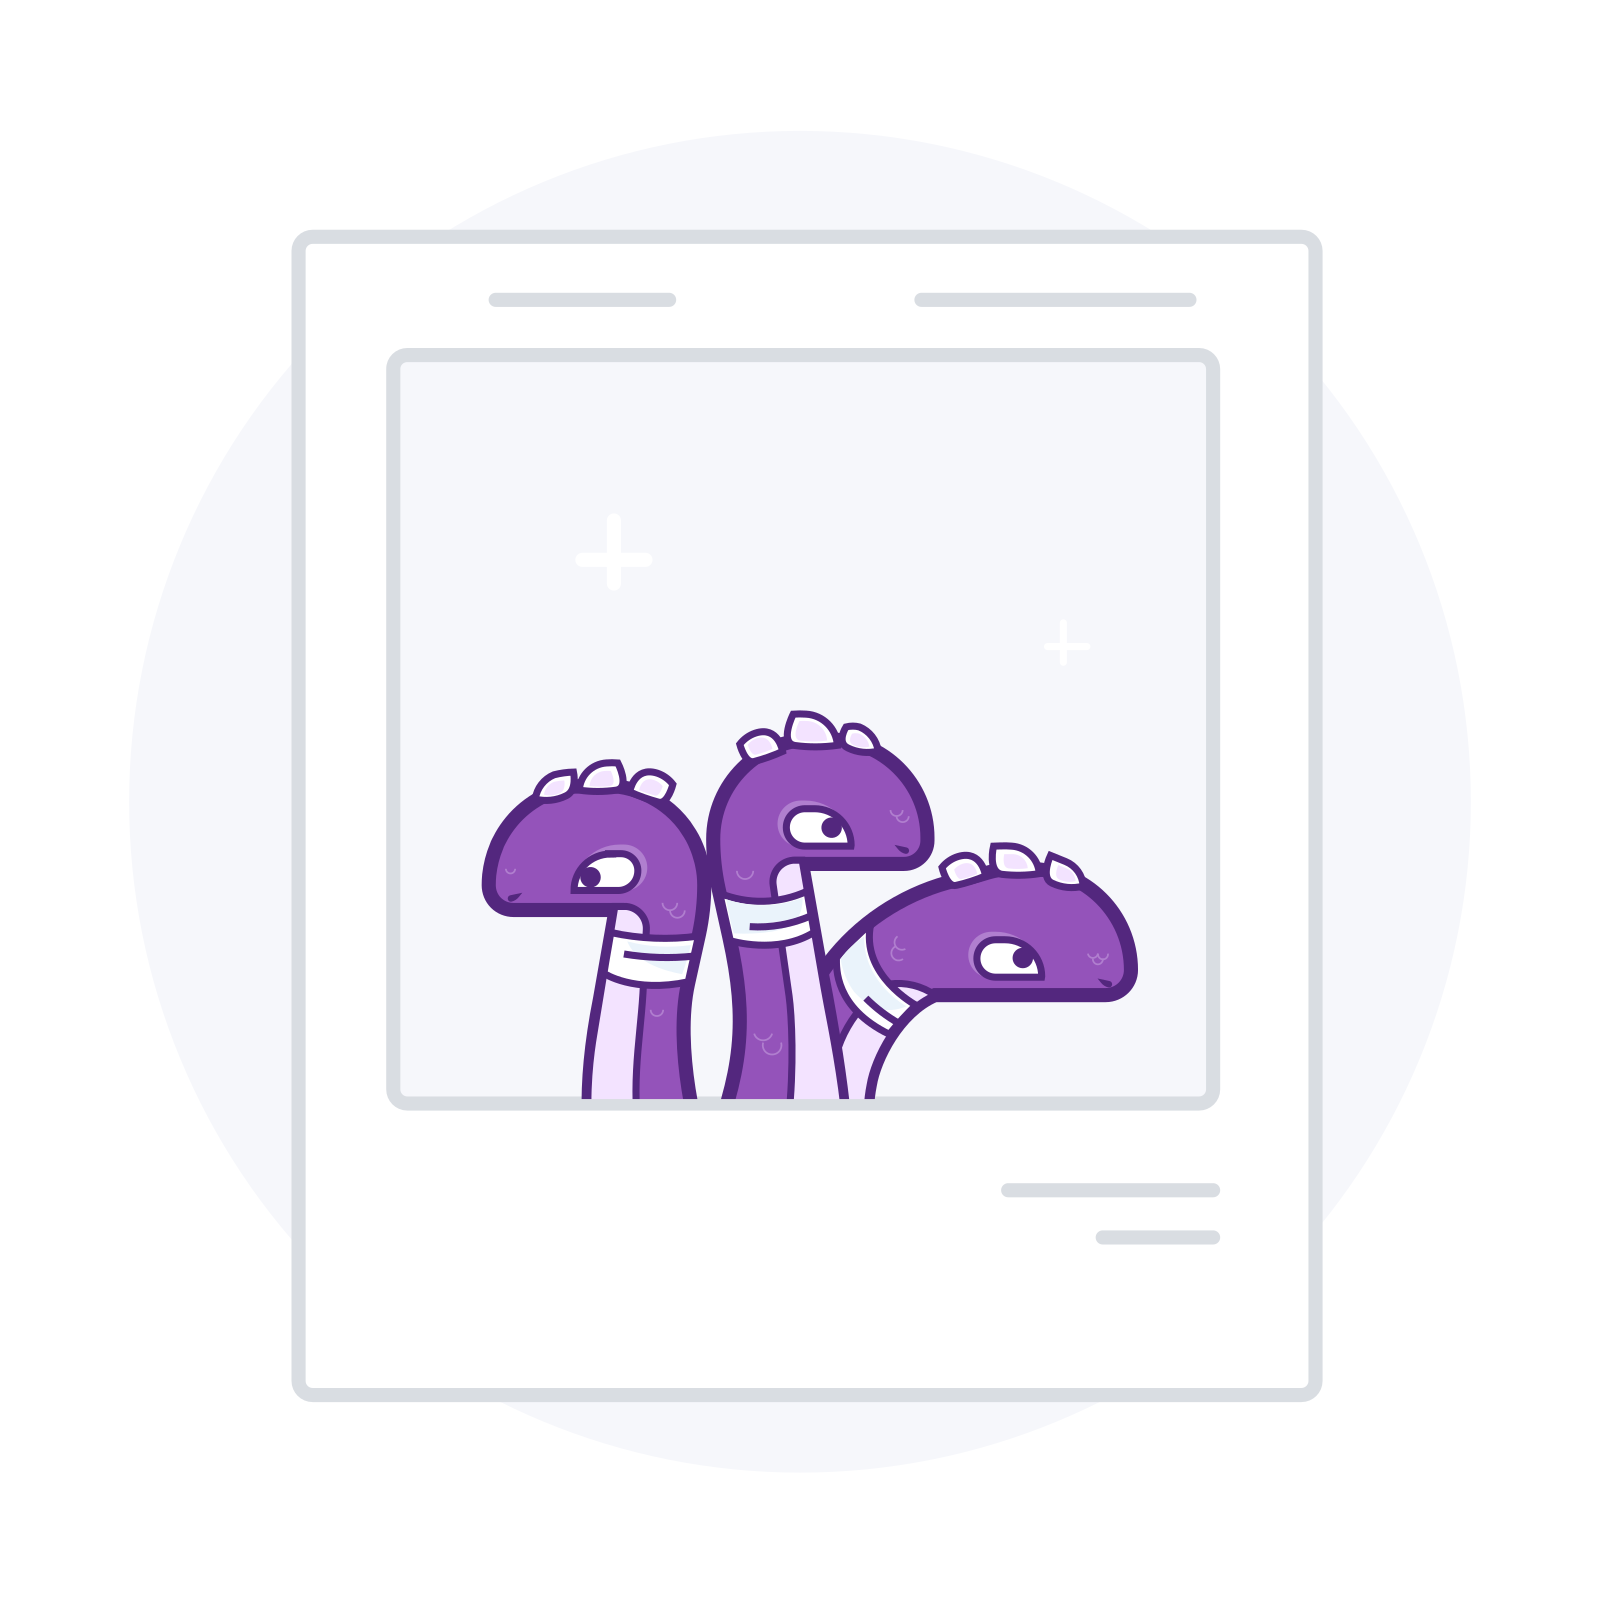
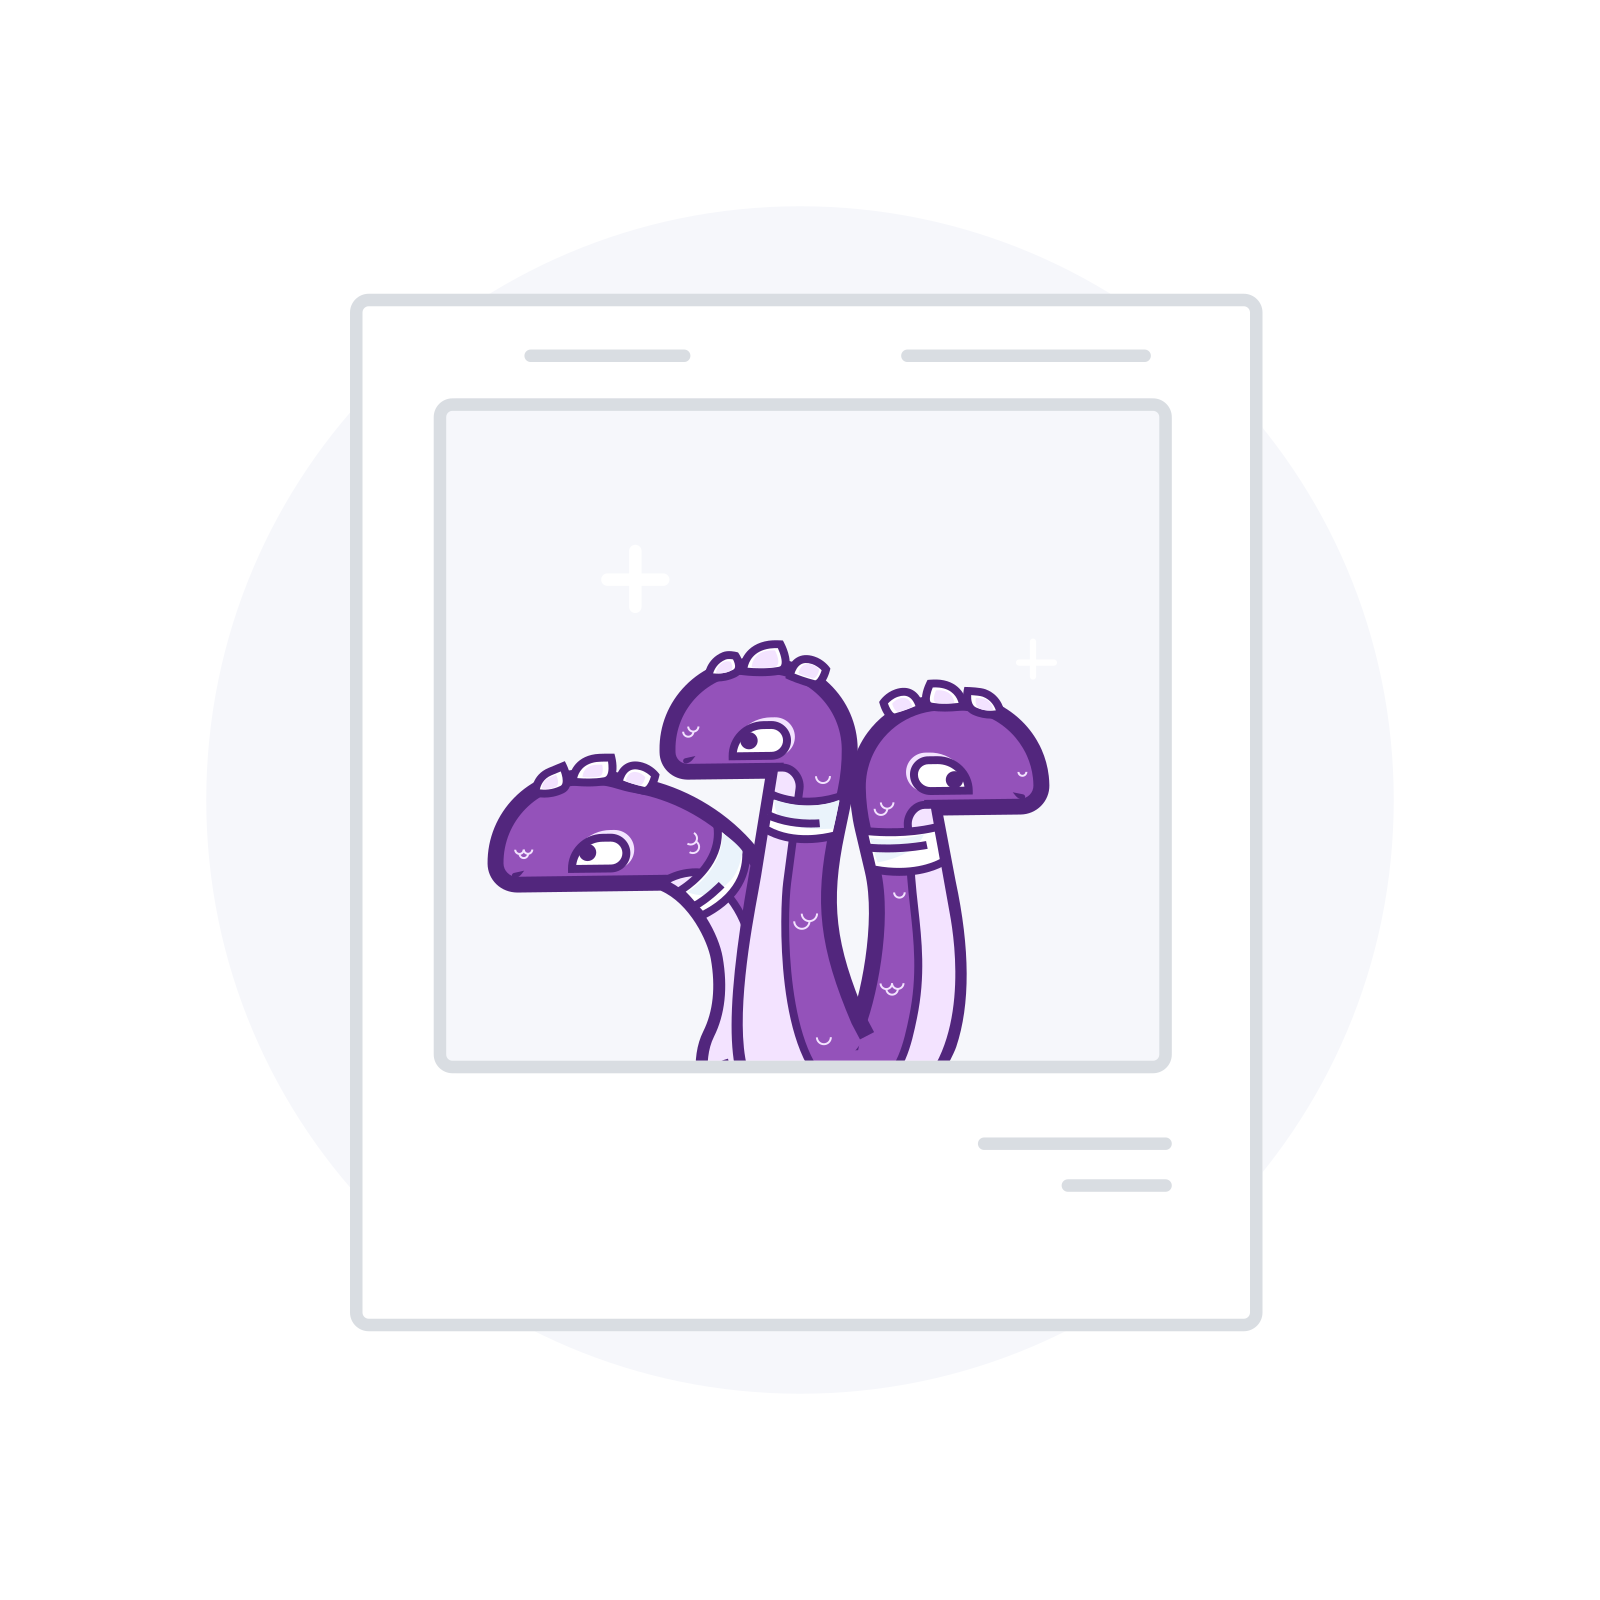
RAC-556: Replace default pim image

Changed region(s): [[0.1562, 0.125, 0.8438, 0.875]]

diff --git a/akeneo-design-system/src/components/Input/MediaLinkInput/MediaLinkInput.tsx b/akeneo-design-system/src/components/Input/MediaLinkInput/MediaLinkInput.tsx
@@ -58,6 +58,10 @@ const ActionContainer = styled.div`
   color: ${getColor('grey', 100)};
 `;
 
+const MediaLinkImage = styled(Image)`
+  border: none;
+`;
+
 type PreviewType = 'preview' | 'thumbnail';
 
 type MediaLinkInputProps = Override<
@@ -175,7 +179,7 @@ const MediaLinkInput = React.forwardRef<HTMLInputElement, MediaLinkInputProps>(
       <>
         <MediaLinkInputContainer ref={containerRef} tabIndex={readOnly ? -1 : 0} invalid={invalid} readOnly={readOnly}>
           {'' !== value ? (
-            <Image src={thumbnailUrl} height={47} width={47} alt={value} />
+            <MediaLinkImage src={thumbnailUrl} height={47} width={47} alt={value} />
           ) : (
             <DefaultPictureIllustration size={47} />
           )}
